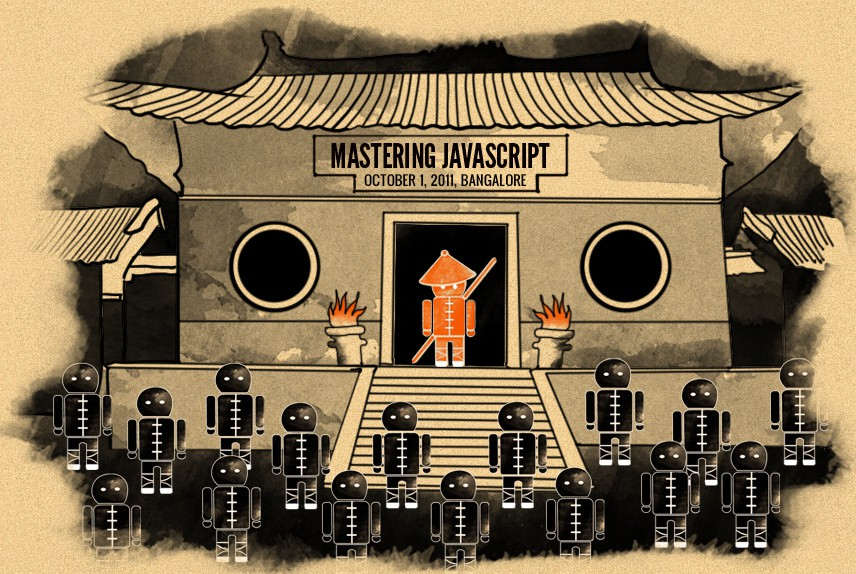
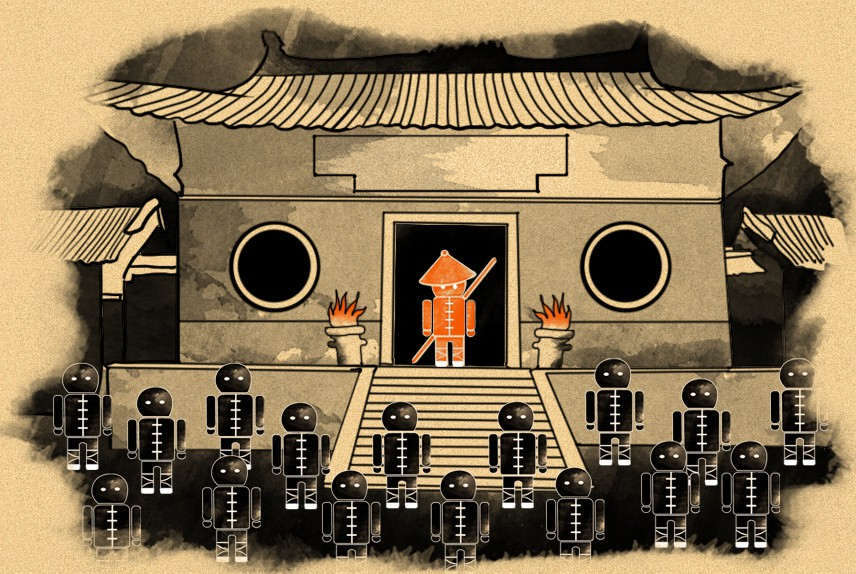
Home page text is now a "text" not part of the image .. no more bangalore on Pune pages

Changed region(s): [[0.3645, 0.2369, 0.6682, 0.3258]]

diff --git a/static/js/main.js b/static/js/main.js
@@ -76,7 +76,7 @@ $(function($){
     if(w < 800){ w = 800; }
     if(h < 300){ h = 300; }
     var adData = {
-      "1w": w, "2w": 2*w, "3w": 3*w, "4w": 4*w, "5w": 5*w, "1h": h, "H": h-110
+      "1w": w, "2w": 2*w, "3w": 3*w, "4w": 4*w, "5w": 5*w, "1h": h, "H": h-100
     };
     var output = template.html().replace(/\{[1-5]?(w|h|H)\}/g, function(f){
       return adData[f.replace(/[\{\}]/g,"")] + "px";

diff --git a/app.js b/app.js
@@ -49,10 +49,14 @@ function capitalize(str){
 
 var eventData = {
   "2011-bangalore": {
-    doAttendId: 4417
+    doAttendId: 4417,
+    time: "October 1, 2011",
+    city: "Bangalore"
   },
   "2012-pune": {
-    doAttendId: 19398
+    doAttendId: 19398,
+    time: "January 11, 2012",
+    city: "Pune"
   }
 };
 
